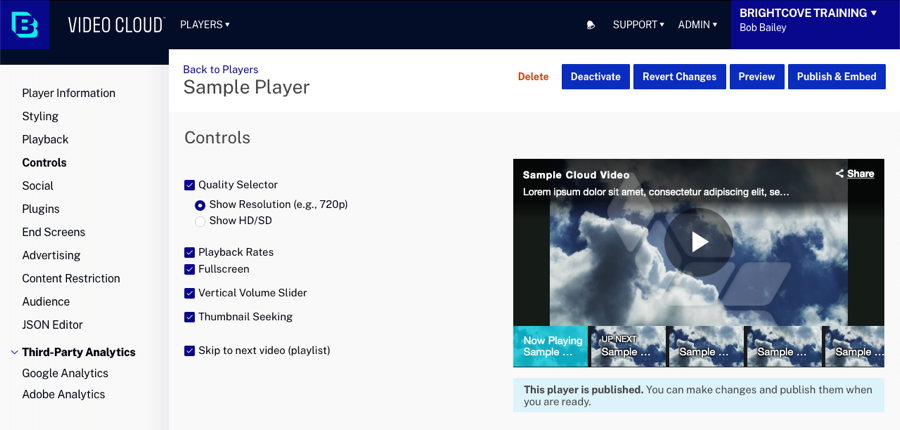
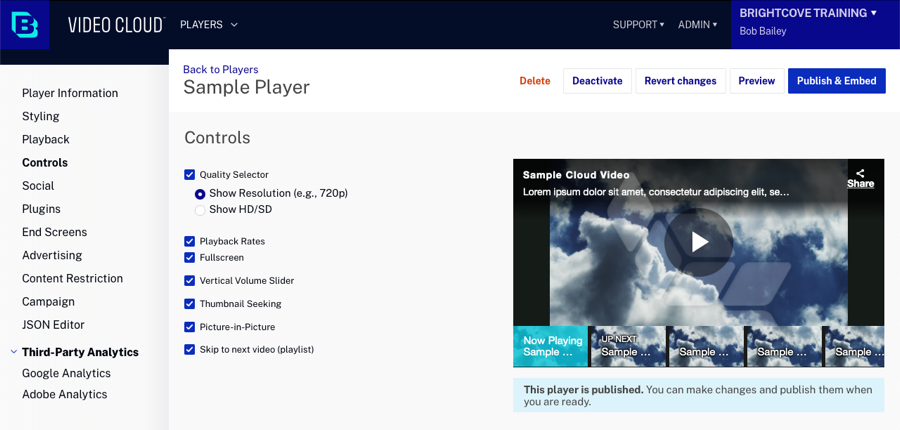
updates

diff --git a/_site/players/configuring-player-controls.html b/_site/players/configuring-player-controls.html
@@ -1249,7 +1249,8 @@ function doGTranslate(lang_pair) {if(lang_pair.value)lang_pair=lang_pair.value;i
       <li><a href="#fullscreen">Fullscreen</a></li>
       <li> <a href="#volume">Vertical Volume Slider</a></li>
       <li><a href="#seeking">Thumbnail Seeking</a></li>
-      <li> <a href="#skip">Skip to next video (playlist)</a> </li>
+      <li><a href="#picture-in-picture">Picture-in-Picture</a></li>
+      <li> <a href="#skip">Skip to next video (playlist)</a></li>
     </ul>
     <p>After any changes have been made, make sure to republish the player for
       the changes to be visible. </p>
@@ -1344,7 +1345,7 @@ function doGTranslate(lang_pair) {if(lang_pair.value)lang_pair=lang_pair.value;i
       /> </figure>
   </section>
   <section class="bcls-section">
-    <h2 id="picture-in-picture">Picture in picture</h2>
+    <h2 id="picture-in-picture">Picture-in-picture</h2>
     <p>HTML5 picture in picture functionality is defined as: <em>Allows websites to create a floating video window always on top of other windows so that users may continue consuming media while they interact with other content sites, or applications on their device</em>.</p>
     <aside class="bcls-aside bcls-aside--information language-editable"></aside>
     <p> An example of picture-in-picture is shown in the following two

diff --git a/players/configuring-player-controls.html b/players/configuring-player-controls.html
@@ -39,7 +39,8 @@ parent: Managing Players
       <li><a href="#fullscreen">Fullscreen</a></li>
       <li> <a href="#volume">Vertical Volume Slider</a></li>
       <li><a href="#seeking">Thumbnail Seeking</a></li>
-      <li> <a href="#skip">Skip to next video (playlist)</a> </li>
+      <li><a href="#picture-in-picture">Picture-in-Picture</a></li>
+      <li> <a href="#skip">Skip to next video (playlist)</a></li>
     </ul>
     <p>After any changes have been made, make sure to republish the player for
       the changes to be visible. </p>
@@ -134,7 +135,7 @@ parent: Managing Players
       /> </figure>
   </section>
   <section class="bcls-section">
-    <h2 id="picture-in-picture">Picture in picture</h2>
+    <h2 id="picture-in-picture">Picture-in-picture</h2>
     <p>HTML5 picture in picture functionality is defined as: <em>Allows websites to create a floating video window always on top of other windows so that users may continue consuming media while they interact with other content sites, or applications on their device</em>.</p>
     <aside class="bcls-aside bcls-aside--information language-editable"></aside>
     <p> An example of picture-in-picture is shown in the following two

diff --git a/_site/players/configuring-player-advertising-using-players-module.html b/_site/players/configuring-player-advertising-using-players-module.html
@@ -1304,7 +1304,7 @@ function doGTranslate(lang_pair) {if(lang_pair.value)lang_pair=lang_pair.value;i
 
 <hr>
 <div class="last-updated">
-  Page last updated on 24 May 2021
+  Page last updated on 08 Nov 2021
 </div>
 
 
